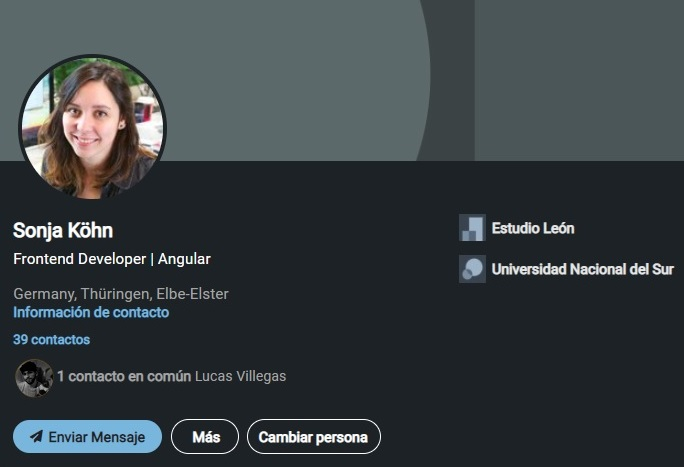
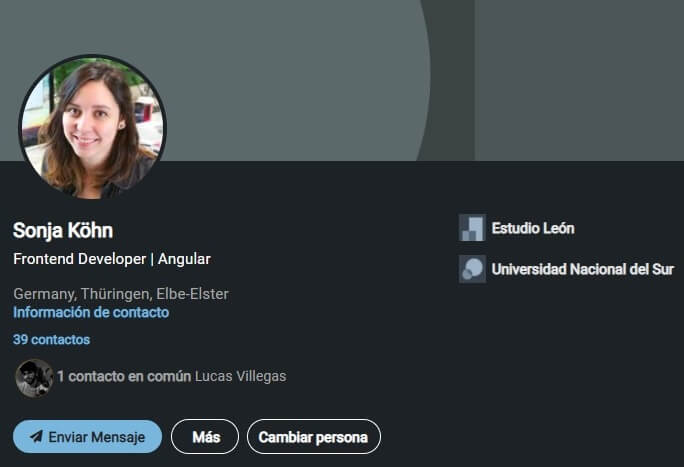
imagenes optimizadas

diff --git a/index.html b/index.html
@@ -28,7 +28,7 @@
           <div class="portada">
             <div class="loader"></div>
             <div class="img-container">
-              <img src="./assets/img/photo/lucaspng3.png" alt="Foto del desarrollador">
+              <img src="./assets/img/photo/lucaspng4.png" alt="Foto del desarrollador">
             </div>
           </div>
 
